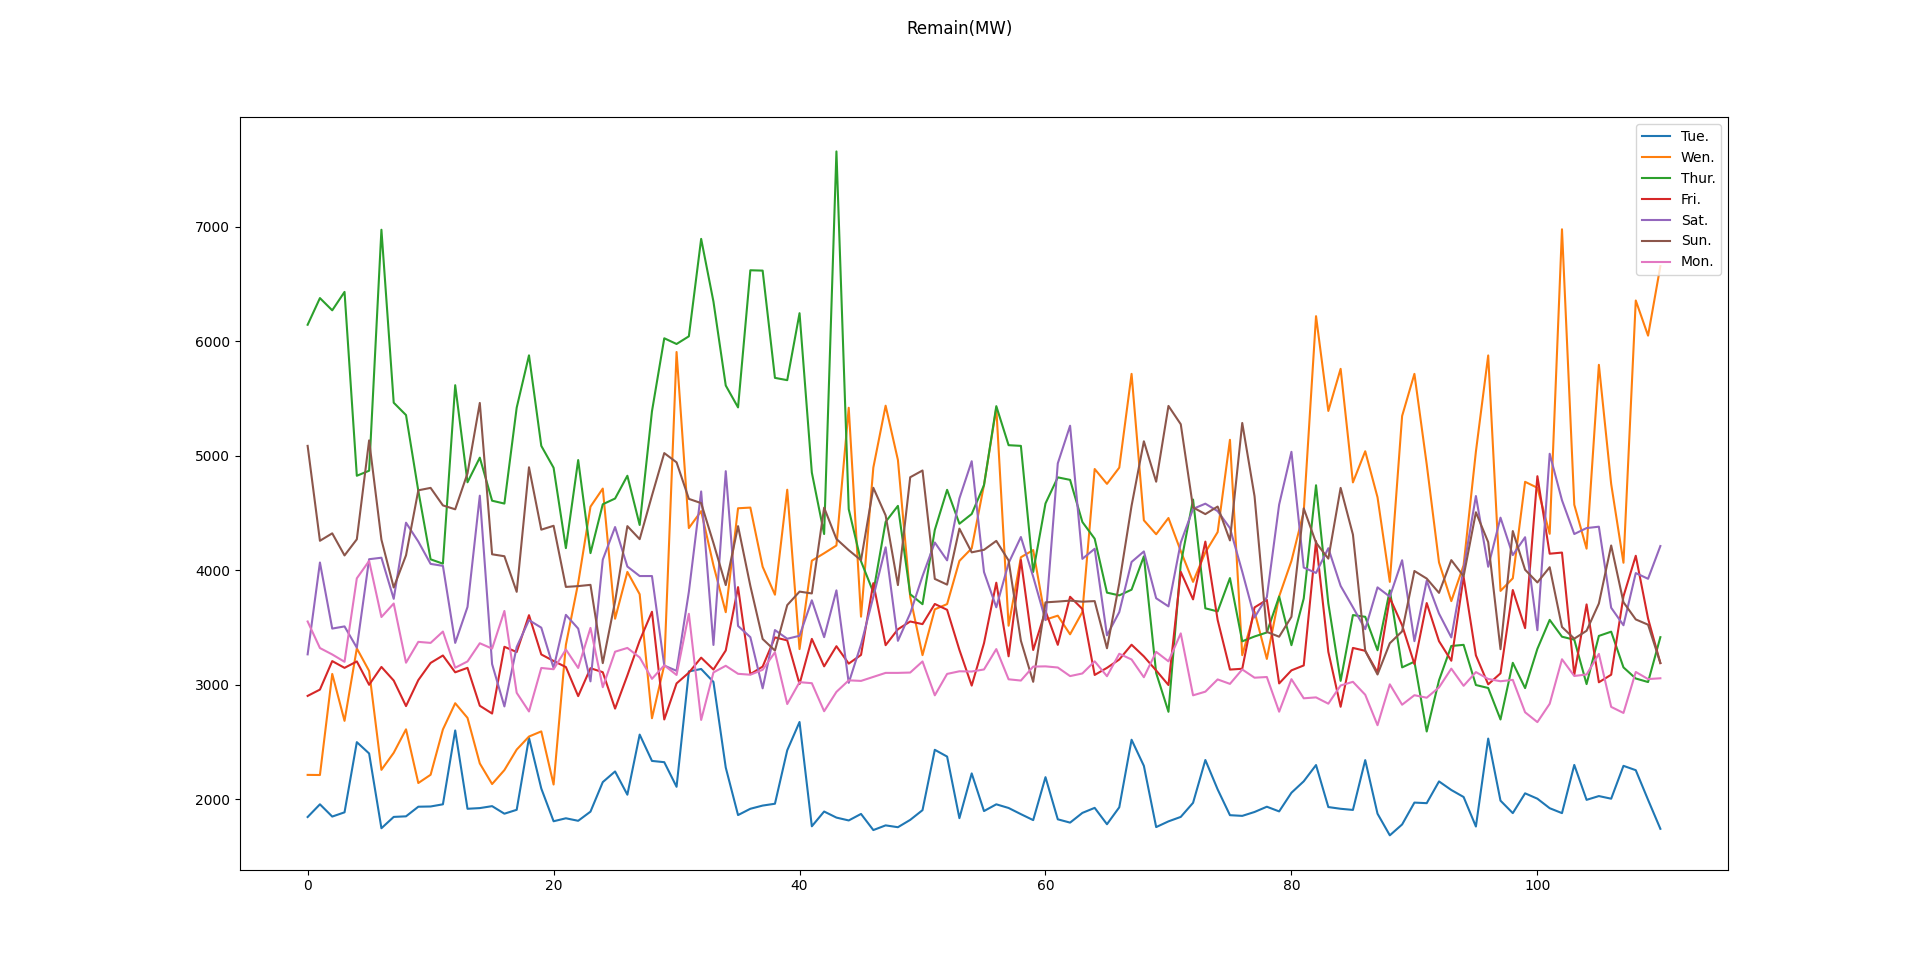
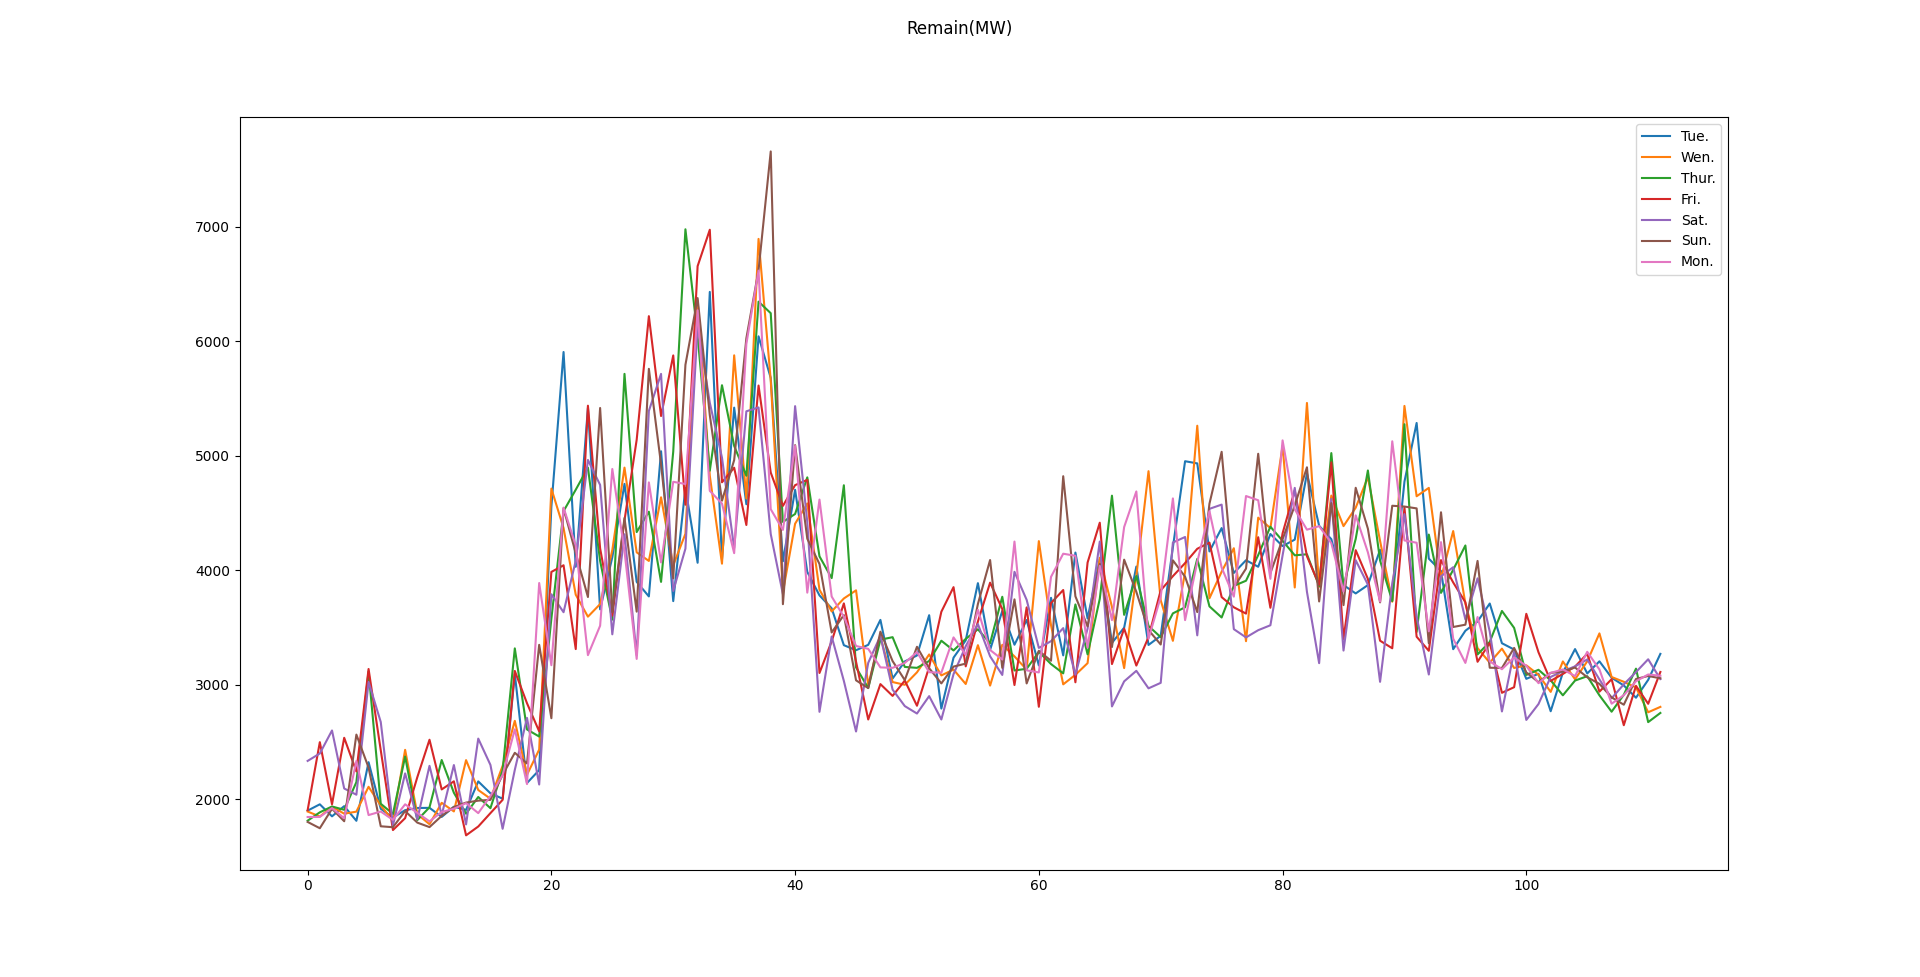
20210315

diff --git a/app.py b/app.py
@@ -9,8 +9,10 @@ import matplotlib.pyplot as plt
 EPOCH = 3000
 LEARNING_RATE = 1e-3
 
-def rmse(pred,true):
-    return np.sqrt(np.mean(np.power(pred-true,2)))
+
+def rmse(pred, true):
+    return np.sqrt(np.mean(np.power(pred-true, 2)))
+
 
 def main():
     # You should not modify this part, but additional arguments are allowed.
@@ -29,10 +31,14 @@ def main():
     #　TRAIN
     d = np.load('./data/trainData.npz', allow_pickle=True)
     trainTestCut = 1
-    train_x = torch.from_numpy(d['train_x'][:-trainTestCut, :]).type(torch.FloatTensor)
-    train_y = torch.from_numpy(d['train_y'][:-trainTestCut, :]).type(torch.FloatTensor)
-    test_x = torch.from_numpy(d['train_x'][-trainTestCut:, :]).type(torch.FloatTensor)
-    test_y = torch.from_numpy(d['train_y'][-trainTestCut:, :]).type(torch.FloatTensor)
+    train_x = torch.from_numpy(
+        d['train_x'][:-trainTestCut, :]).type(torch.FloatTensor)
+    train_y = torch.from_numpy(
+        d['train_y'][:-trainTestCut, :]).type(torch.FloatTensor)
+    test_x = torch.from_numpy(
+        d['train_x'][-trainTestCut:, :]).type(torch.FloatTensor)
+    test_y = torch.from_numpy(
+        d['train_y'][-trainTestCut:, :]).type(torch.FloatTensor)
 
     model = nn.Sequential(
         nn.Linear(1, 20),
@@ -48,7 +54,7 @@ def main():
     for epoch in range(EPOCH):
         print(f'epoch {epoch+1}/{EPOCH}', end='\r')
 
-        pred = model(train_x[:,:])
+        pred = model(train_x[:, :])
 
         optimizer.zero_grad()
         loss = lossFunction(pred, train_y)
@@ -59,22 +65,19 @@ def main():
     print('')
 
     # TEST
-    
 
-    pred_y = model(test_x[:,:]).detach().numpy()
+    pred_y = model(test_x[:, :]).detach().numpy()
     test_y = test_y.numpy()
 
     pred_y = pred_y.flatten()
     test_y = test_y.flatten()
-    
-    
-    
+
     print(rmse(test_y, pred_y))
-    
+
     plt.plot(pred_y, label='pred')
     plt.plot(test_y, label='true')
     plt.xticks(ticks=range(7*trainTestCut), labels=[
-               'Sat.', 'Sun.', 'Mon.', 'Tue.','Wen.', 'Thur.', 'Fri.']*trainTestCut)
+               'Wen.', 'Thur.', 'Fri.', 'Sat.', 'Sun.', 'Mon.', 'Tue.']*trainTestCut)
     plt.legend()
     plt.show()
 

diff --git a/plot.py b/plot.py
@@ -7,18 +7,21 @@ import matplotlib.pyplot as plt
 df = pd.read_csv('./data/每日備轉容量.csv')
 
 
-def filter(data):
-    fft = np.fft.fft(data)
-    fftf = np.fft.fftfreq(data.shape[0])
-    # fft[abs(fftf) > 0.035] = 0
-    fft[abs(fftf) < 0.14] = 0
-    return np.fft.ifft(fft).real
+# def filter(data):
+#     fft = np.fft.fft(data)
+#     fftf = np.fft.fftfreq(data.shape[0])
+#     # fft[abs(fftf) > 0.035] = 0
+#     fft[abs(fftf) < 0.14] = 0
+#     return np.fft.ifft(fft).real
 
 
-d = df['備轉容量(MW)'].values
-print( df.iloc[[6]])
+d = (df['備轉容量(MW)']).values
 
-d = d[6:783].reshape(7, -1)
+aaa = np.zeros([7,0])
+for n in range(0,784,7):
+    aaa = np.concatenate((aaa,d[n:n+7].reshape(7,1)),axis=1)   
+# d = d[6:783].reshape(7, -1)
+d = aaa
 
 # plt.plot(d)
 [b, c, d, e, f, g, h] = plt.plot(d.T)
